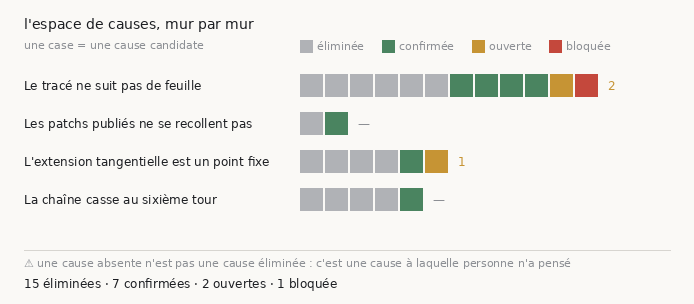
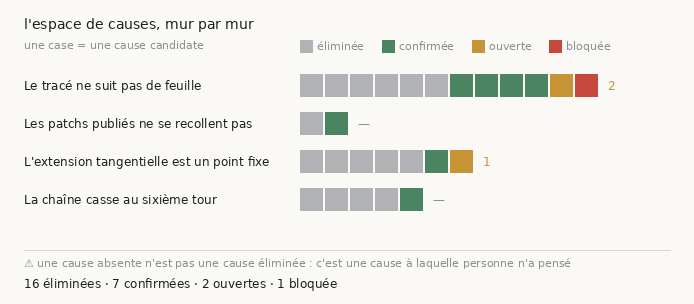
resultat(chaine): chaining the projection is strictly worse than one jump, measured without a render
Five links of 238 micrometres, each starting from the previous link's output,
against a control crossing the same 1.19 millimetres in one go. The discriminant
costs no render at all: the bounding box volume at constant point count.

Five links take it from 10.04 to 23.92 gigavoxels, a factor of 2.38, while the
direct jump of the same total distance leaves it at 11.01, a factor of 1.10. With
14280 points throughout, a volume that doubles is a mesh that does not move but
SPREADS. And the growth is super-linear: 1.01, 1.02, 1.04, 1.22, 2.38, stable over
three links then exploding, which is compounding rather than drift.

The mechanism fits in a sentence. Each projection moves every point along its
LOCAL tangent, neighbouring tangents diverge on a curved sheet, so the grid shears
a little each time. The direct jump uses the source's tangents once: one shear,
not five compounded.

The render of that fifth link confirmed it the hard way, crawling at 2 KiB per
second and then aborting where the others run at 200 to 400. A mesh spread over
2.4 times the volume makes the engine fetch 2.4 times the data for the same
surface. The campaign said so, printing that the profile was abandoned rather than
producing a number for a failed render.

So a purely geometric tangential chain does not work, and not by a margin that
tuning would close: it is strictly worse than the single projection it claims to
extend. What is missing is not a better step but re-optimisation between links,
[…]

Changed region(s): [[0.5749, 0.4737, 0.696, 0.5921], [0.0303, 0.9178, 0.0605, 0.9474]]

diff --git a/analysis/src/projeter_tangentiel.py b/analysis/src/projeter_tangentiel.py
@@ -182,6 +182,37 @@ def ecrire(plans, meta, dest: Path, rendu: dict) -> dict:
     return m
 
 
+def volume_englobant(meta: dict) -> float:
+    """Le volume de la boîte englobante, en voxels.
+
+    ⚠⚠ C'est le **discriminant bon marché d'une chaîne**, et il ne coûte aucun rendu. Mesuré
+    le 2026-08-25 : cinq projections enchaînées de 238 µm font passer la boîte de 10,0 à
+    23,9 Gvoxels **à nombre de points constant**, quand un bond direct de la même longueur
+    totale la laisse à 11,0. Le maillage ne se déplace pas, il **s'étale** — et un rendu de
+    cette surface rampe à 2 Kio/s puis abandonne.
+
+    ⚠ À nombre de points constant, un volume qui grossit est un maillage qui se déforme. C'est
+    le seul énoncé que cette grandeur porte : elle ne dit pas *où* ni *comment*.
+    """
+    bas, haut = meta["bbox"]
+    return float((haut[0] - bas[0]) * (haut[1] - bas[1]) * (haut[2] - bas[2]))
+
+
+def croissance(dossiers: list[Path]) -> list[dict]:
+    """Le volume englobant de chaque maillage d'une chaîne, et son rapport au premier."""
+    out = []
+    for d in dossiers:
+        meta = json.loads((d / "meta.json").read_text(encoding="utf-8"))
+        v = volume_englobant(meta)
+        out.append({"maillage": d.name, "volume_vox": v,
+                    "points": int(meta.get("points_projetes", 0)) or None})
+    if out:
+        base = out[0]["volume_vox"] or 1.0
+        for r in out:
+            r["rapport"] = r["volume_vox"] / base
+    return out
+
+
 def verifier() -> int:
     """Les témoins, sur une nappe fabriquée dont on connaît la tangente."""
     import shutil
@@ -280,6 +311,32 @@ def verifier() -> int:
       abs(float(relu[4, 10]) - (gx[4, 10] + 10.0)) < 1e-3)
     shutil.rmtree(racine, ignore_errors=True)
 
+    # ⚠⚠ Le discriminant bon marché : un volume englobant qui grossit à nombre de points
+    # constant est un maillage qui s'étale. Sondé dans les deux sens — un maillage translaté
+    # garde son volume, un maillage étiré le multiplie.
+    v("une boîte cubique de 10 vaut 1000 voxels",
+      abs(volume_englobant({"bbox": [[0, 0, 0], [10, 10, 10]]}) - 1000.0) < 1e-9)
+    v("une translation ne change pas le volume",
+      volume_englobant({"bbox": [[0, 0, 0], [10, 10, 10]]})
+      == volume_englobant({"bbox": [[500, 500, 500], [510, 510, 510]]}))
+    v("doubler un côté double le volume",
+      volume_englobant({"bbox": [[0, 0, 0], [20, 10, 10]]})
+      == 2 * volume_englobant({"bbox": [[0, 0, 0], [10, 10, 10]]}))
+
+    racine2 = Path(tempfile.mkdtemp(prefix="croissance_temoins_"))
+    for i, cote in enumerate((10, 10, 20)):
+        d = racine2 / f"m{i}"
+        d.mkdir()
+        (d / "meta.json").write_text(json.dumps(
+            {"bbox": [[0, 0, 0], [cote, 10, 10]], "points_projetes": 100}), encoding="utf-8")
+    c = croissance([racine2 / f"m{i}" for i in range(3)])
+    v("la chaîne rend un rang par maillage", len(c) == 3)
+    v("le premier rapport vaut 1", abs(c[0]["rapport"] - 1.0) < 1e-9)
+    v("un maillage identique garde son rapport", abs(c[1]["rapport"] - 1.0) < 1e-9)
+    v("un maillage deux fois plus large le double", abs(c[2]["rapport"] - 2.0) < 1e-9)
+    v("le compte de points voyage", c[0]["points"] == 100)
+    shutil.rmtree(racine2, ignore_errors=True)
+
     print(f"{'ALL PASS' if echecs == 0 else 'FAILURES'} ({echecs} failures, {controles} checks)")
     return 1 if echecs else 0
 
@@ -292,11 +349,24 @@ def main() -> int:
                    help="0 = lignes, 1 = colonnes ; défaut : l'axe le plus long, MESURÉ")
     p.add_argument("--pas", type=float, default=1.0,
                    help="en pas de grille ; négatif pour projeter de l'autre côté")
+    p.add_argument("--croissance", type=Path, nargs="*",
+                   help="mesurer le volume englobant d'une suite de maillages — le "
+                        "discriminant d'une chaîne, et il ne coûte aucun rendu")
     p.add_argument("--json", type=Path)
     p.add_argument("--verifier", action="store_true")
     a = p.parse_args()
     if a.verifier:
         return verifier()
+    if a.croissance:
+        c = croissance([Path(x) for x in a.croissance])
+        print(f"{'maillage':16s} {'volume (Gvox)':>14s} {'×premier':>10s} {'points':>8s}")
+        for r in c:
+            print(f"{r['maillage']:16s} {r['volume_vox'] / 1e9:14.2f} "
+                  f"{r['rapport']:10.2f} {r['points'] or '—':>8}")
+        if a.json:
+            a.json.parent.mkdir(parents=True, exist_ok=True)
+            a.json.write_text(json.dumps(c, indent=2), encoding="utf-8")
+        return 0
     if not a.source or not a.dest:
         p.error("source et --dest requis")
 

diff --git a/docs/44_ou_la_chaine_se_trouve.md b/docs/44_ou_la_chaine_se_trouve.md
@@ -307,6 +307,48 @@ savoir où elle change** — ce qui n'est possible qu'en la rendant plus dense.
 quand les points ne le sont pas, et elle imprime « ⚠ NON monotone » depuis le tirage à six
 points. Le contrôle était écrit avant la donnée qui l'a fait parler.
 
+#### ⚠⚠⚠ Et enchaîner est STRICTEMENT PIRE qu'un seul bond — mesuré sans aucun rendu
+
+La projection compose : elle lit un `tifxyz` et en écrit un. On peut donc **enchaîner** —
+cinq maillons de 238 µm, chacun partant de la sortie du précédent — et comparer au **témoin**
+qui franchit les mêmes 1,19 mm d'un seul bond. Sans ce témoin, une chaîne qui tient ne
+prouverait rien : elle pourrait tenir parce que la distance est courte.
+
+⭐ Le discriminant ne coûte **aucun rendu** : le **volume de la boîte englobante**, à nombre de
+points constant.
+
+| maillage | volume englobant | ×source | points |
+|---|---:|---:|---:|
+| source | 10,04 Gvox | 1,00 | 14 280 |
+| maillon 1 | 10,12 | 1,01 | 14 280 |
+| maillon 2 | 10,22 | 1,02 | 14 280 |
+| maillon 3 | 10,45 | 1,04 | 14 280 |
+| maillon 4 | 12,21 | **1,22** | 14 280 |
+| **maillon 5** | **23,92** | ⚠⚠ **2,38** | 14 280 |
+| **bond direct, même distance** | 11,01 | ⭐ **1,10** | 14 280 |
+
+> ⚠⚠ **Cinq maillons : ×2,38. Un seul bond de la même longueur : ×1,10.** À nombre de points
+> **constant**, un volume qui double est un maillage qui ne se déplace pas mais **s'étale**.
+>
+> ⭐ Et la croissance est **super-linéaire** — 1,01 · 1,02 · 1,04 · 1,22 · 2,38. Stable sur
+> trois maillons, puis elle explose. C'est une composition d'erreurs, pas une dérive.
+
+**Le mécanisme se dit en une phrase** : chaque projection déplace chaque point le long de sa
+tangente **locale**. Sur une nappe courbe, les tangentes voisines divergent, donc la grille
+**cisaille** un peu à chaque fois. Le bond direct n'utilise les tangentes de la source
+**qu'une fois** — un cisaillement, pas cinq composés.
+
+⚠ Le rendu de ce cinquième maillon l'a confirmé de la pire façon : **2 Kio/s puis abandon**,
+là où les autres tournent à 200-400. Un maillage étalé sur 2,4 fois le volume force le moteur
+à chercher 2,4 fois plus de données pour la même surface. ⭐ La campagne l'a **dit** —
+« ⚠ profil de maillon_5 abandonné » — au lieu de produire un chiffre pour un rendu raté.
+
+> ⭐⭐⭐ **Donc une chaîne tangentielle PUREMENT GÉOMÉTRIQUE ne marche pas**, et ce n'est pas
+> un détail de réglage : elle est strictement moins bonne que la projection unique qu'elle
+> prétend prolonger. Ce qui manque n'est pas un meilleur pas, c'est la **réoptimisation entre
+> les maillons** — recoller la nappe projetée sur la matière, ce que ce document nommait déjà
+> (`--correct`). La chaîne a besoin de la donnée, pas seulement de la géométrie.
+
 ⚠⚠ **Ce que ça ne dit PAS, et c'est ce qui empêche d'en conclure que la chaîne est morte** :
 ces trois points mesurent une projection **pure**, sans réoptimisation. Une vraie chaîne
 recollerait la nappe projetée sur la matière — c'est le rôle de `--correct`, que ce document

diff --git a/HANDOFF.md b/HANDOFF.md
@@ -45,7 +45,7 @@ quoi que ce soit.
 
 > ⭐⭐ **La feuille de route est [`55`](docs/55_les_murs_et_leurs_causes.md)** — un tableau par
 > mur, une ligne par **cause candidate**, avec son verdict et le document qui le porte.
-> **25 causes, 15 éliminées, 7 confirmées, 2 ouvertes, 1 bloquée.** Un mur n'est pas une tâche, c'est un
+> **26 causes, 16 éliminées, 7 confirmées, 2 ouvertes, 1 bloquée.** Un mur n'est pas une tâche, c'est un
 > espace de causes dont on retire une entrée à la fois : lister des tâches laisse croire qu'on
 > avance quand on tourne, lister des éliminations montre l'espace rétrécir.
 >
@@ -59,7 +59,7 @@ quoi que ce soit.
 |---|---|---|
 | le tracé ne suit pas de feuille | ⭐⭐ **la surface est EN TRAVERS de l'empilement, et ça se VOIT** : à étendue égale, une couche publiée montre une feuille de face, les nôtres des spires coupées en travers. Relief 0,79 et 0,87 contre 0,16 et 0,20. ⚠ Sur 27 séries, une seule porte un verdict α ; à 100,8, 384 et 796,8 µm, **100 % des fenêtres ont leur pic sur un bord de pile** | [`54`](docs/54_cinq_rendus_vides.md) §3 quinquies, [`53`](docs/53_le_temoin_positif_du_rendu.md), [`51`](docs/51_une_pente_a_deux_appuis.md) |
 | les patchs publiés ne se recollent pas | un patch PAR feuille, paire la plus proche à 79 µm ≈ 2× le seuil | [`44`](docs/44_ou_la_chaine_se_trouve.md) |
-| l'extension tangentielle est un point fixe | le cycle rogner-étendre converge vers ~6 cm². ⭐⭐ La projection **tangentielle** existe et a **deux seuils** : contraste maximal vers **240 µm**, et la nappe reste sur sa feuille jusqu'à **~380 µm** (pic au bord 0,0 %) avant de sauter à 18 % à 476. ⚠ Projection pure, sans réoptimisation — c'est le plancher | [`44`](docs/44_ou_la_chaine_se_trouve.md) §7 |
+| l'extension tangentielle est un point fixe | le cycle rogner-étendre converge vers ~6 cm². ⭐⭐ La projection **tangentielle** a **deux seuils** : contraste maximal vers **240 µm**, nappe encore sur sa feuille jusqu'à **~380 µm**. ⚠⚠ Mais **l'enchaîner sans réoptimiser est STRICTEMENT PIRE** qu'un seul bond : cinq maillons étalent la boîte englobante **×2,38** à nombre de points constant, contre **×1,10** pour le bond direct. Il faut recoller sur la matière entre les maillons | [`44`](docs/44_ou_la_chaine_se_trouve.md) §7 |
 | la chaîne casse au sixième tour | et la repousse la coupe au troisième | [`43`](docs/43_la_chaine_des_spires.md) |
 
 ### Ce qui vient d'être fermé

diff --git a/docs/55_les_murs_et_leurs_causes.md b/docs/55_les_murs_et_leurs_causes.md
@@ -11,7 +11,7 @@ la fois. Une feuille de route qui liste des tâches laisse croire qu'on avance q
 tourne ; celle-ci liste des causes **éliminées**, et montre l'espace rétrécir. C'est le
 seul progrès mesurable sur un problème que personne n'a résolu.
 
-**25 causes candidates** sur **4 murs** : ❌ **15** éliminées · ✅ **7** confirmées · ⏳ **2** ouvertes · 🔒 **1** bloquée
+**26 causes candidates** sur **4 murs** : ❌ **16** éliminées · ✅ **7** confirmées · ⏳ **2** ouvertes · 🔒 **1** bloquée
 
 | symbole | verdict | ce que ça veut dire |
 |---|---|---|
@@ -57,7 +57,7 @@ viennent du même registre et sont vérifiés contre ce tableau.*
 
 ## 3. L'extension tangentielle est un point fixe
 
-❌ 4 éliminées · ✅ 1 confirmée · ⏳ 1 ouverte
+❌ 5 éliminées · ✅ 1 confirmée · ⏳ 1 ouverte
 
 | cause candidate | | ce qui a été mesuré | où |
 |---|---|---|---|
@@ -66,6 +66,7 @@ viennent du même registre et sont vérifiés contre ce tableau.*
 | enchaîner rogner puis étendre | ❌ | le cycle converge vers un point fixe autour de 6 cm² : chaque tour regagne ce qu'il vient de perdre | [`44`](44_ou_la_chaine_se_trouve.md) |
 | juger une courbe sur trois points | ❌ | trois points donnaient « pente monotone », six « plateau puis falaise », neuf « maximum puis descente douce » — chaque forme plausible, chaque forme fausse | [`44`](44_ou_la_chaine_se_trouve.md) |
 | juger la projection par un sondage de points | ❌ | bloc avec matière et valeur au point rendent le MÊME chiffre de 0 µm à 2,4 mm : un bloc fait 307 µm quand les feuilles sont à 10-20 µm | [`44`](44_ou_la_chaine_se_trouve.md) |
+| enchaîner la projection sans réoptimiser | ❌ | cinq maillons de 238 µm étalent la boîte englobante ×2,38 à nombre de points constant, quand un bond direct de même longueur la laisse à ×1,10 | [`44`](44_ou_la_chaine_se_trouve.md) |
 | la chaîne TANGENTIELLE, qui suivrait une feuille autour du tour | ⏳ | la projection existe et a DEUX seuils : contraste maximal vers 240 µm, et la nappe reste sur sa feuille jusqu'à ~380 µm. Reste à enchaîner et à réoptimiser | [`44`](44_ou_la_chaine_se_trouve.md) |
 
 ## 4. La chaîne casse au sixième tour
